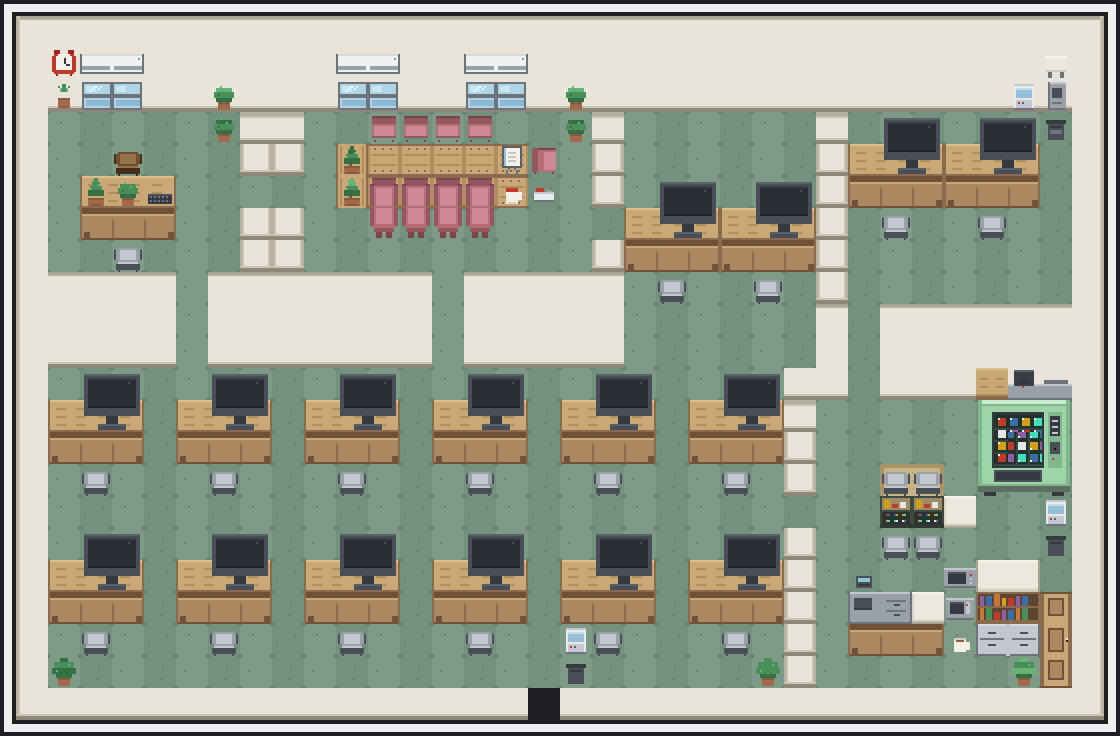
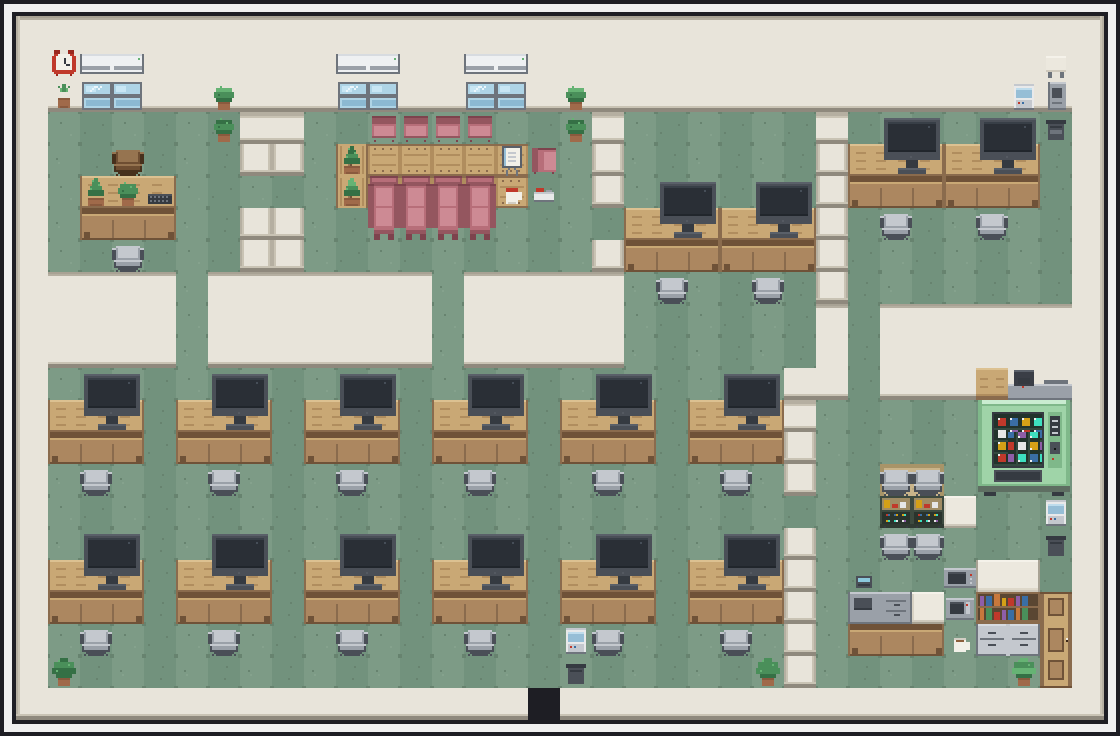
tileset polish r2: chairs fill their tile (5-star base + armrests + seat cushion edge-to-edge, no more floating grey squares); conference chairs get rolled backrest + armrest columns both halves so the 2-tile stack reads as a lounge chair

diff --git a/scripts/gen_tilesets.py b/scripts/gen_tilesets.py
@@ -194,22 +194,26 @@ def drawer():
 
 def office_chair(body, shade, hi):
     """Top-down office chair: the agent sits facing UP toward the monitor, so
-    the backrest is the dark band at the BOTTOM of the tile. Seat cushion in
-    the middle, armrests at the sides, gas-cylinder dot in the center."""
+    the backrest is the dark band at the BOTTOM of the tile. Fill the tile —
+    a chair that only uses the middle reads as a floating cushion."""
     im = new_tile(); d = ImageDraw.Draw(im)
-    # backrest (bottom, behind the sitter)
-    rect(d, 3, 11, 10, 4, shade)
-    rect(d, 2, 12, 12, 3, shade)
-    rect(d, 3, 11, 10, 1, hi)
-    # seat cushion
-    rect(d, 3, 4, 10, 7, body)
-    rect(d, 2, 5, 12, 5, body)
-    rect(d, 4, 5, 8, 5, hi)
+    # 5-star base shadow
+    rect(d, 4, 14, 8, 2, shade)
+    px(d, 2, 15, shade); px(d, 13, 15, shade)
+    px(d, 3, 14, shade); px(d, 12, 14, shade)
+    # backrest (bottom, behind the sitter) — full width, chunky
+    rect(d, 1, 10, 14, 4, shade)
+    rect(d, 1, 10, 14, 1, hi)
+    rect(d, 2, 11, 12, 2, body)
     # armrests
-    rect(d, 1, 5, 1, 5, shade)
-    rect(d, 14, 5, 1, 5, shade)
-    # casters hint
-    px(d, 3, 15, shade); px(d, 12, 15, shade)
+    rect(d, 0, 4, 2, 6, shade)
+    rect(d, 14, 4, 2, 6, shade)
+    rect(d, 0, 4, 2, 1, hi)
+    rect(d, 14, 4, 2, 1, hi)
+    # seat cushion — edge-to-edge
+    rect(d, 2, 3, 12, 7, body)
+    rect(d, 3, 4, 10, 5, hi)
+    rect(d, 2, 3, 12, 1, hi)
     return im
 
 def mauve_chair_back():
@@ -224,15 +228,19 @@ def mauve_chair_back():
     return im
 
 def mauve_cushion():
-    """Chair backrest+upper seat, top half of front-facing chair (gid 258)."""
+    """Chair backrest+upper seat, top half of front-facing chair (gid 258).
+    Fills the tile — reads as a lounge chair, not a pillow."""
     im = new_tile(); d = ImageDraw.Draw(im)
-    rect(d, 2, 1, 12, 4, MAUVE_D)
-    rect(d, 2, 1, 12, 1, MAUVE_XD)
+    # rolled backrest top
+    rect(d, 1, 0, 14, 5, MAUVE_D)
+    rect(d, 1, 0, 14, 1, MAUVE_XD)
+    rect(d, 2, 1, 12, 2, MAUVE)          # cushion on the backrest
     # armrests run down the sides
-    rect(d, 1, 4, 2, 11, MAUVE_D)
-    rect(d, 13, 4, 2, 11, MAUVE_D)
-    rect(d, 1, 4, 2, 1, MAUVE_XD)
-    rect(d, 13, 4, 2, 1, MAUVE_XD)
+    rect(d, 0, 4, 3, 12, MAUVE_D)
+    rect(d, 13, 4, 3, 12, MAUVE_D)
+    rect(d, 0, 4, 3, 1, MAUVE_XD)
+    rect(d, 13, 4, 3, 1, MAUVE_XD)
+    # seat
     rect(d, 3, 5, 10, 11, MAUVE)
     rect(d, 4, 6, 8, 9, MAUVE_L)
     return im
@@ -240,14 +248,13 @@ def mauve_cushion():
 def mauve_chair_front():
     """Chair lower half: seat + feet (gid 274)."""
     im = new_tile(); d = ImageDraw.Draw(im)
-    # armrest tails continue down the sides
-    rect(d, 1, 0, 2, 9, MAUVE_D)
-    rect(d, 13, 0, 2, 9, MAUVE_D)
-    rect(d, 3, 0, 10, 10, MAUVE)
-    rect(d, 4, 0, 8, 8, MAUVE_L)
-    rect(d, 3, 10, 10, 2, MAUVE_D)
-    rect(d, 4, 12, 3, 3, MAUVE_XD)
-    rect(d, 9, 12, 3, 3, MAUVE_XD)
+    rect(d, 0, 0, 3, 10, MAUVE_D)         # armrest tails
+    rect(d, 13, 0, 3, 10, MAUVE_D)
+    rect(d, 3, 0, 10, 11, MAUVE)
+    rect(d, 4, 0, 8, 9, MAUVE_L)
+    rect(d, 3, 11, 10, 2, MAUVE_D)        # seat front edge
+    rect(d, 3, 13, 3, 3, MAUVE_XD)        # feet
+    rect(d, 10, 13, 3, 3, MAUVE_XD)
     return im
 
 def mauve_armchair_side():
